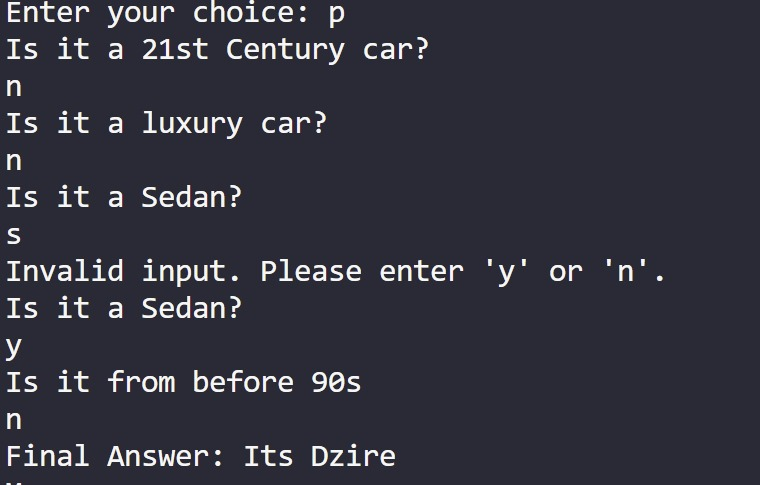
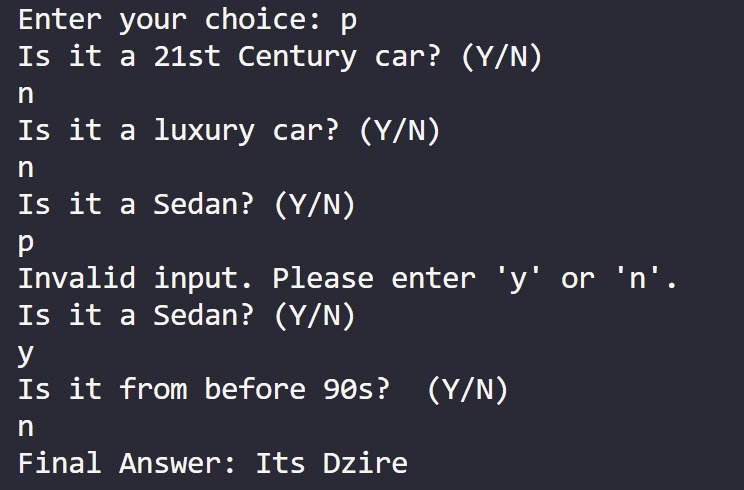
updated txt and screenshots with y/n

diff --git a/README.md b/README.md
@@ -23,6 +23,8 @@ Dhruv Sovasaria RA2211003010667
 
 ![Play](https://raw.githubusercontent.com/Sandhirishan/BST-guessing-game/main/screenshots/play5.jpg)
 
+![Play](https://raw.githubusercontent.com/Sandhirishan/BST-guessing-game/main/screenshots/play6.jpg)
+
 ![display](https://raw.githubusercontent.com/Sandhirishan/BST-guessing-game/main/screenshots/display.jpg)
 
 ![inorder](https://raw.githubusercontent.com/Sandhirishan/BST-guessing-game/main/screenshots/in.jpg)
@@ -30,3 +32,4 @@ Dhruv Sovasaria RA2211003010667
 ![preorder](https://raw.githubusercontent.com/Sandhirishan/BST-guessing-game/main/screenshots/pre.jpg)
 
 ![postorder](https://raw.githubusercontent.com/Sandhirishan/BST-guessing-game/main/screenshots/post.jpg)
+![help](https://raw.githubusercontent.com/Sandhirishan/BST-guessing-game/main/screenshots/help.jpg)
